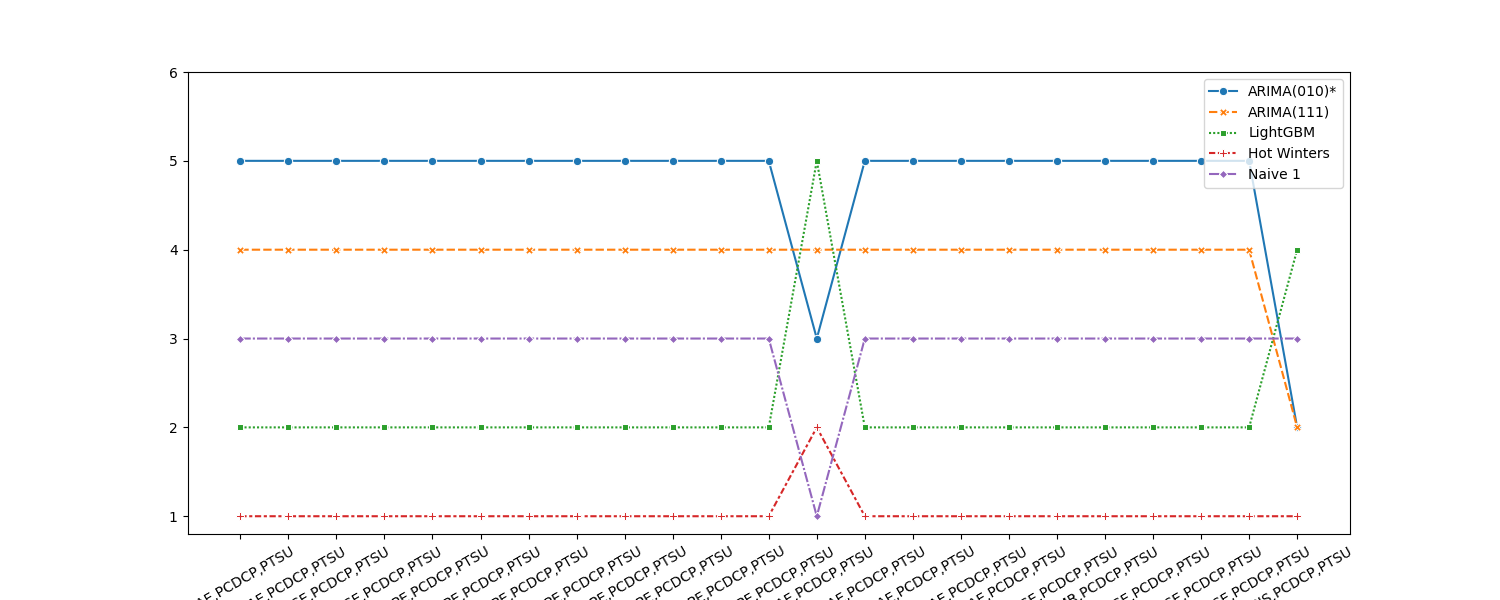
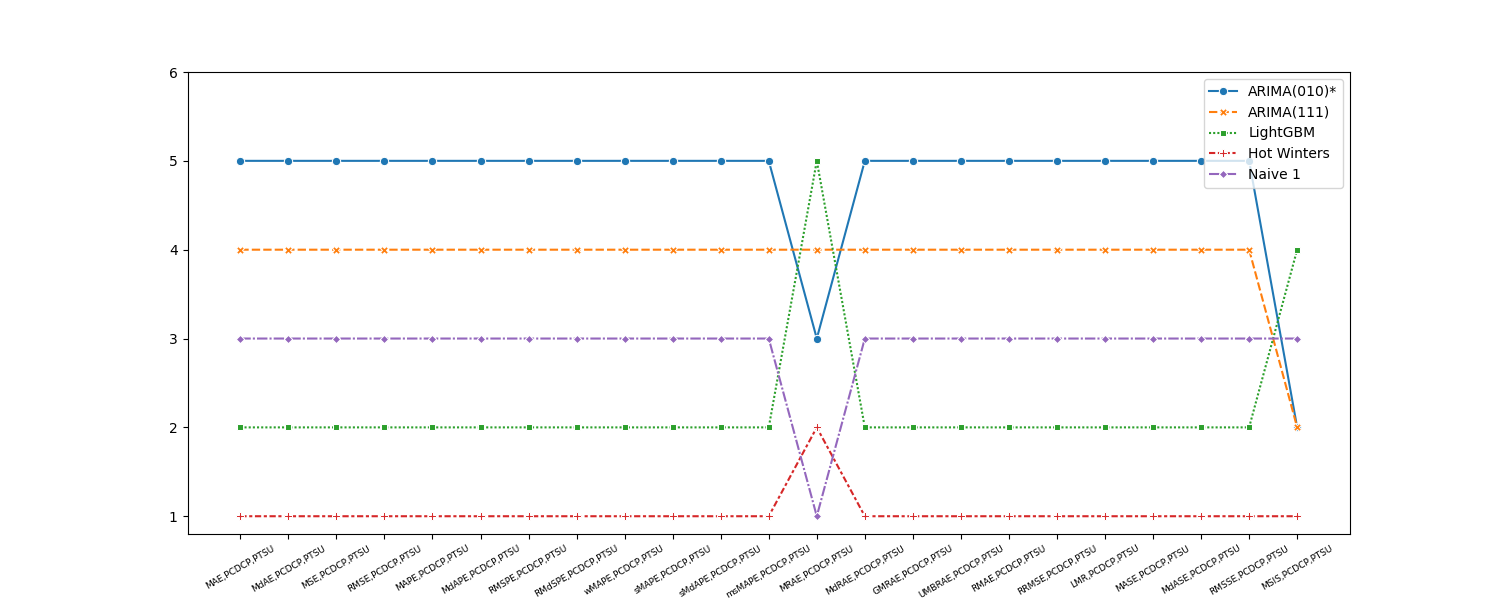
On branch main Your branch is up to date with 'origin/main'.
Changes to be committed:
	modified:   experiments/exp3_ranking/plotting.py
	modified:   experiments/exp3_ranking/run.py
	modified:   experiments_plots/model_ranking/mcda_price.png
	modified:   experiments_plots/model_ranking/mcda_sales.png

Changed region(s): [[0.1227, 0.9, 0.8893, 1.0]]

diff --git a/experiments/exp3_ranking/run.py b/experiments/exp3_ranking/run.py
@@ -163,7 +163,7 @@ mcda_rank_price = mcda_rank_price.rank(ascending=False, method='dense').transpos
 mcda_rank_sales = mcda_rank_sales.rank(ascending=False, method='dense').transpose()
 
 save_path = '../../experiments_plots/model_ranking/mcda_price.png'
-plotting.line_plotting(save_path, mcda_rank_price)
+plotting.line_plotting(save_path, mcda_rank_price, fontsize=6.5)
 
 save_path = '../../experiments_plots/model_ranking/mcda_sales.png'
-plotting.line_plotting(save_path, mcda_rank_sales)
+plotting.line_plotting(save_path, mcda_rank_sales, fontsize=6.5)

diff --git a/experiments/exp3_ranking/plotting.py b/experiments/exp3_ranking/plotting.py
@@ -2,10 +2,10 @@
 import matplotlib.pyplot as plt
 import seaborn as sns
 
-def line_plotting(save_path:str, data):
+def line_plotting(save_path:str, data, fontsize = 10):
     plt.figure(figsize=(15, 6))
     sns.lineplot(data, markers=True)
     plt.yticks(range(int(1), int(5) + 2))
-    plt.xticks(rotation= 30)
+    plt.xticks(rotation= 30, fontsize = fontsize)
     plt.savefig(save_path)
     plt.show()
